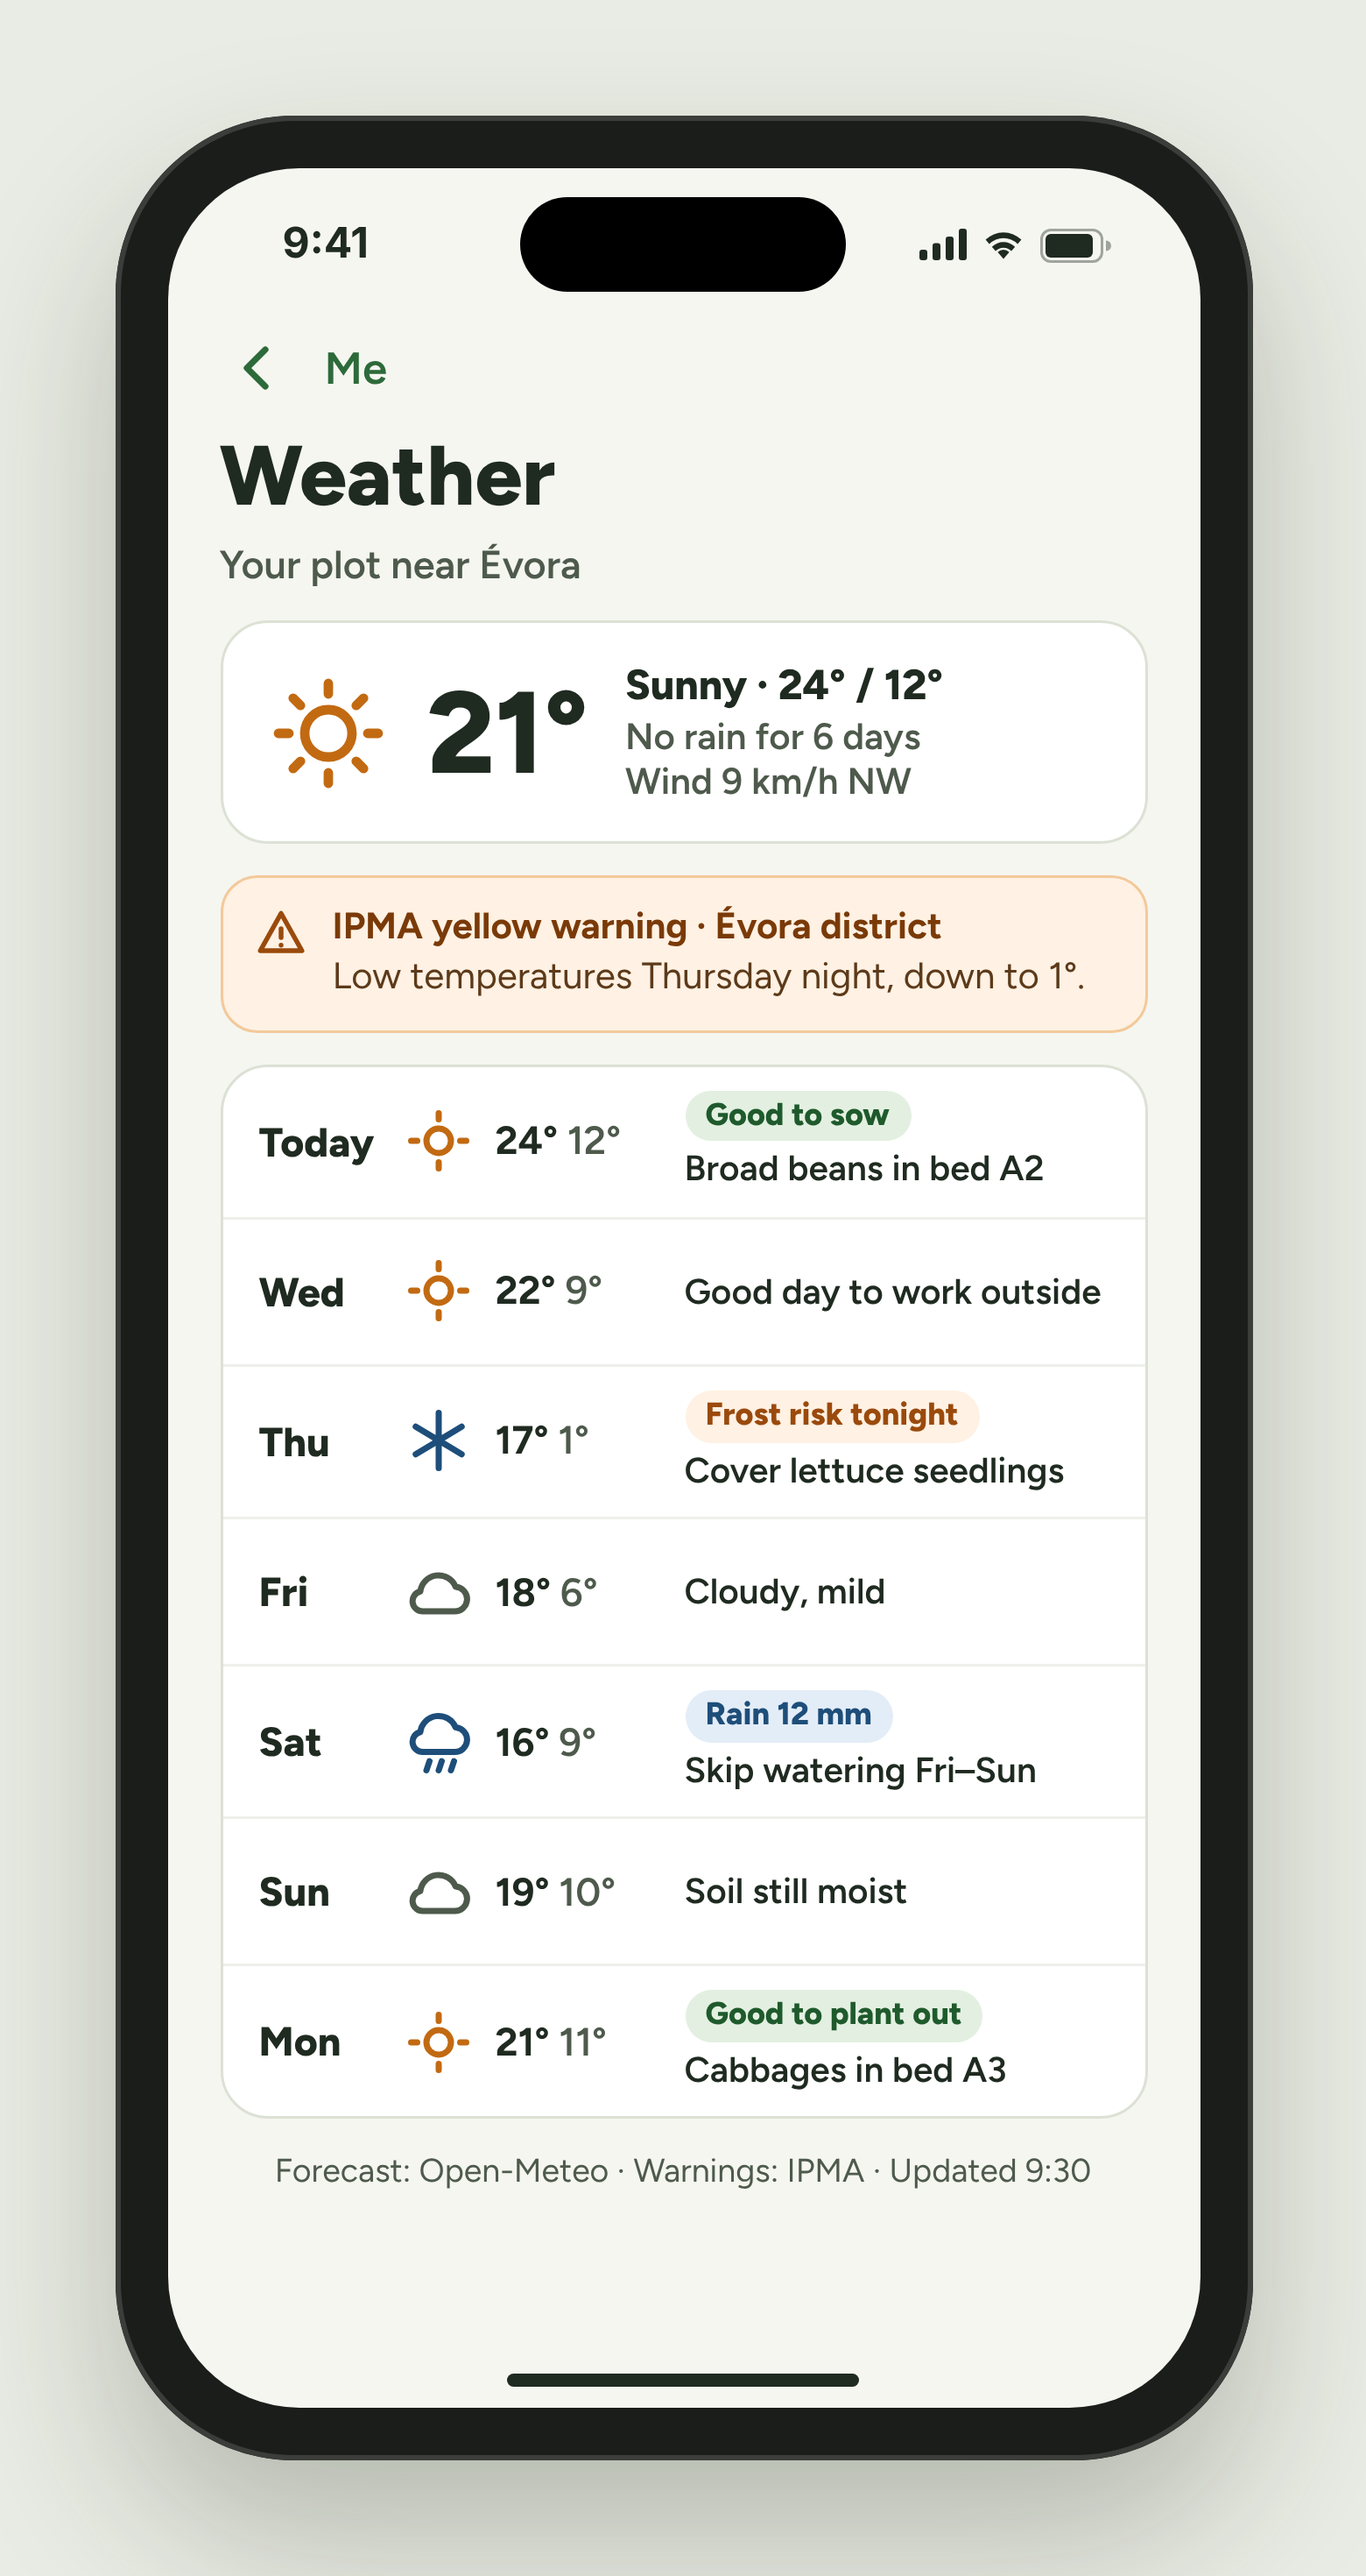
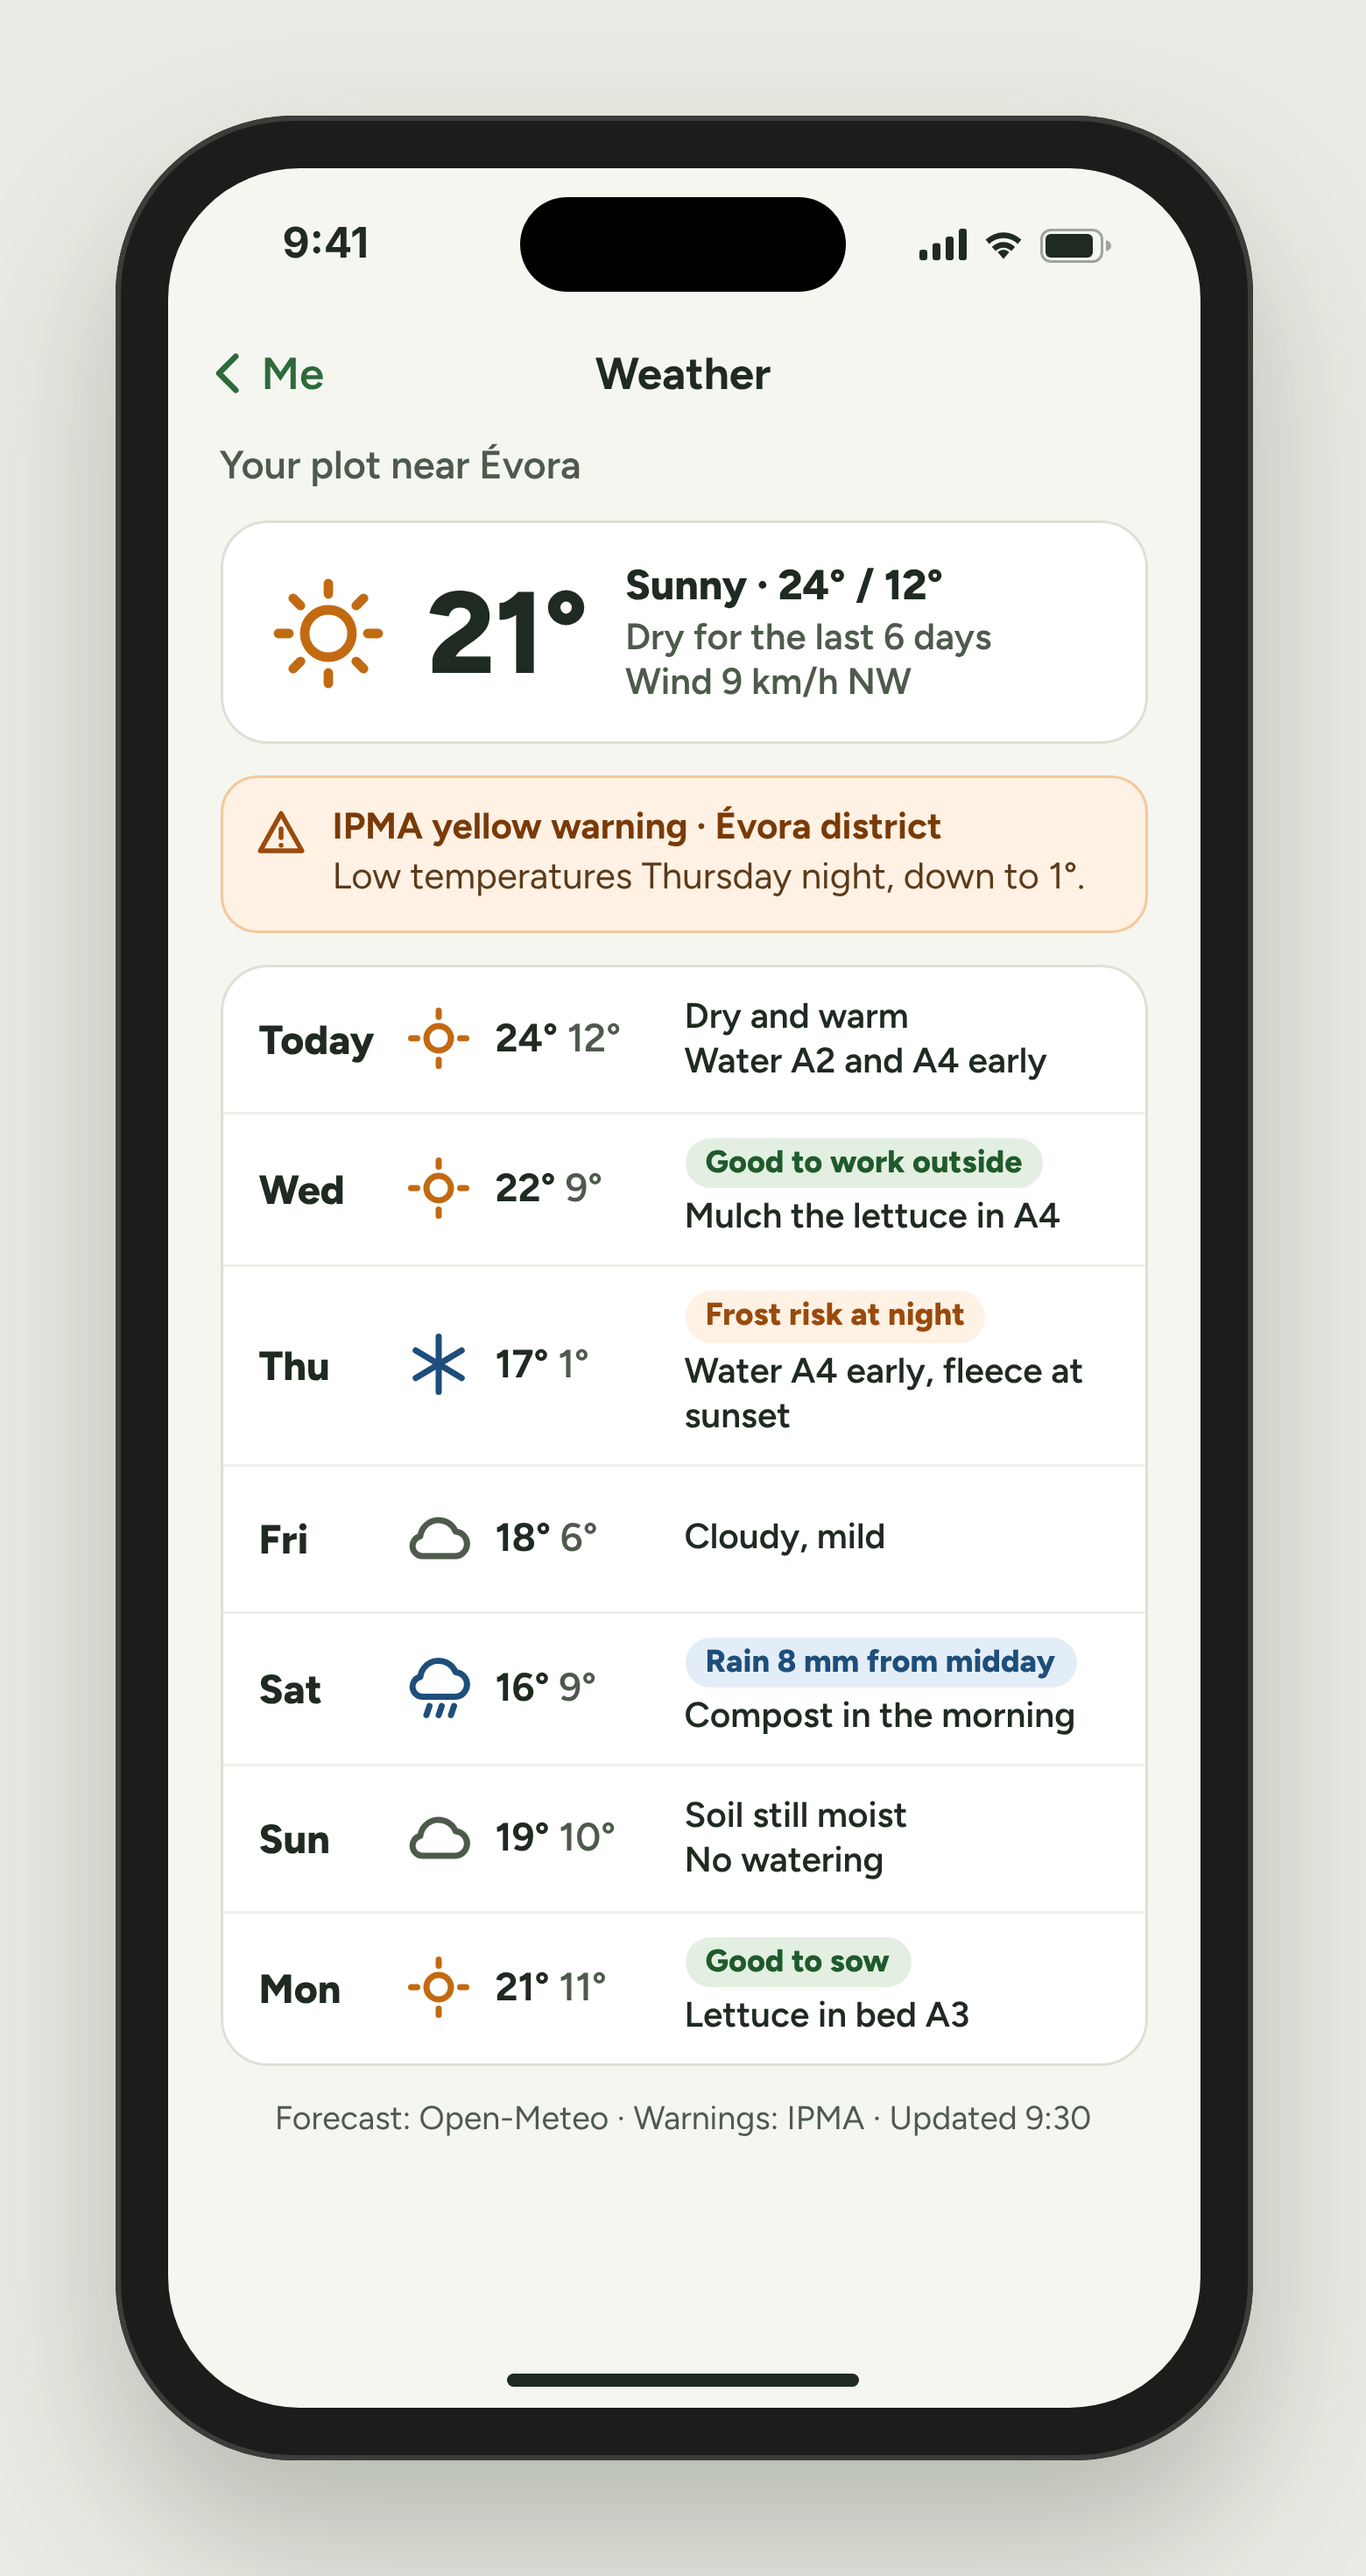
Design G5 weather: drill-down nav, daily notes match the week's plan
Claude-Session: https://claude.ai/code/session_015NynAjU4naPZwzmeuGazot

diff --git a/design/source/G5-weather.html b/design/source/G5-weather.html
@@ -11,7 +11,7 @@
   .body { flex: 1; padding: 0 20px 30px; display: flex; flex-direction: column; gap: 12px; overflow: hidden; }
   .body > * { flex: none; }
   h1 { margin: 0; font-size: 32px; font-weight: 800; }
-  .place { margin-top: -6px; font-size: 15px; color: var(--muted); font-weight: 600; }
+  .place { margin-top: 2px; font-size: 15px; color: var(--muted); font-weight: 600; }
   .now { background: #fff; border: 1px solid var(--line); border-radius: 18px; padding: 14px 16px; display: flex; align-items: center; gap: 14px; }
   .now .t { font-size: 44px; font-weight: 800; line-height: 1; }
   .now .d { display: flex; flex-direction: column; gap: 2px; font-size: 14px; color: var(--muted); font-weight: 600; }
@@ -43,30 +43,29 @@
       <svg width="27" height="13" viewBox="0 0 27 13"><rect x="0.5" y="0.5" width="23" height="12" rx="3.5" fill="none" stroke="#1F2A20" opacity=".4"/><rect x="2" y="2" width="18" height="9" rx="2" fill="#1F2A20"/><path d="M25 4.5v4a2 2 0 0 0 0-4z" fill="#1F2A20" opacity=".4"/></svg>
     </span>
   </div>
-  <div class="nav">
-    <div class="back"><svg width="24" height="24" viewBox="0 0 24 24" fill="none" stroke="#2D6A3A" stroke-width="2.4" stroke-linecap="round" stroke-linejoin="round"><path d="M15 5l-7 7 7 7"/></svg></div>
-    <span style="font-size: 17px; color: var(--green); font-weight: 600">Me</span>
+  <div class="nav" style="position: relative; height: 48px">
+    <div style="display: flex; align-items: center; gap: 2px; color: var(--green); font-size: 17px; font-weight: 600; height: 44px"><svg width="22" height="22" viewBox="0 0 24 24" fill="none" stroke="#2D6A3A" stroke-width="2.4" stroke-linecap="round" stroke-linejoin="round"><path d="M15 5l-7 7 7 7"/></svg>Me</div>
+    <span style="position: absolute; left: 50%; transform: translateX(-50%); font-size: 17px; font-weight: 700">Weather</span>
   </div>
   <div class="body">
-    <h1>Weather</h1>
     <div class="place">Your plot near Évora</div>
     <div class="now">
       <svg width="48" height="48" viewBox="0 0 24 24" fill="none" stroke="#C26A12" stroke-width="1.8" stroke-linecap="round"><circle cx="12" cy="12" r="4.5"/><path d="M12 2.5v2M12 19.5v2M2.5 12h2M19.5 12h2M5.3 5.3l1.4 1.4M17.3 17.3l1.4 1.4M5.3 18.7l1.4-1.4M17.3 6.7l1.4-1.4"/></svg>
       <div class="t">21°</div>
-      <div class="d"><b>Sunny · 24° / 12°</b>No rain for 6 days<br>Wind 9 km/h NW</div>
+      <div class="d"><b>Sunny · 24° / 12°</b>Dry for the last 6 days<br>Wind 9 km/h NW</div>
     </div>
     <div class="ipma">
       <svg width="20" height="20" viewBox="0 0 24 24" fill="none" stroke="#9A4A0C" stroke-width="2.2" stroke-linecap="round" stroke-linejoin="round" style="flex: none; margin-top: 1px"><path d="M12 3l9.5 17h-19z"/><path d="M12 10v4M12 17.5v.01"/></svg>
       <div><b>IPMA yellow warning · Évora district</b><br>Low temperatures Thursday night, down to 1°.</div>
     </div>
     <div class="days">
-      <div class="day"><span class="n">Today</span><svg width="28" height="28" viewBox="0 0 24 24" fill="none" stroke="#C26A12" stroke-width="2" stroke-linecap="round"><circle cx="12" cy="12" r="4"/><path d="M12 3v2M12 19v2M3 12h2M19 12h2"/></svg><span class="temp">24° <span>12°</span></span><span class="note"><span class="pill g">Good to sow</span><br>Broad beans in bed A2</span></div>
-      <div class="day"><span class="n">Wed</span><svg width="28" height="28" viewBox="0 0 24 24" fill="none" stroke="#C26A12" stroke-width="2" stroke-linecap="round"><circle cx="12" cy="12" r="4"/><path d="M12 3v2M12 19v2M3 12h2M19 12h2"/></svg><span class="temp">22° <span>9°</span></span><span class="note">Good day to work outside</span></div>
-      <div class="day"><span class="n">Thu</span><svg width="28" height="28" viewBox="0 0 24 24" fill="none" stroke="#1E4E7A" stroke-width="2" stroke-linecap="round" stroke-linejoin="round"><path d="M12 3v18M4.5 7.5l15 9M19.5 7.5l-15 9"/></svg><span class="temp">17° <span>1°</span></span><span class="note"><span class="pill o">Frost risk tonight</span><br>Cover lettuce seedlings</span></div>
+      <div class="day"><span class="n">Today</span><svg width="28" height="28" viewBox="0 0 24 24" fill="none" stroke="#C26A12" stroke-width="2" stroke-linecap="round"><circle cx="12" cy="12" r="4"/><path d="M12 3v2M12 19v2M3 12h2M19 12h2"/></svg><span class="temp">24° <span>12°</span></span><span class="note">Dry and warm<br>Water A2 and A4 early</span></div>
+      <div class="day"><span class="n">Wed</span><svg width="28" height="28" viewBox="0 0 24 24" fill="none" stroke="#C26A12" stroke-width="2" stroke-linecap="round"><circle cx="12" cy="12" r="4"/><path d="M12 3v2M12 19v2M3 12h2M19 12h2"/></svg><span class="temp">22° <span>9°</span></span><span class="note"><span class="pill g">Good to work outside</span><br>Mulch the lettuce in A4</span></div>
+      <div class="day"><span class="n">Thu</span><svg width="28" height="28" viewBox="0 0 24 24" fill="none" stroke="#1E4E7A" stroke-width="2" stroke-linecap="round" stroke-linejoin="round"><path d="M12 3v18M4.5 7.5l15 9M19.5 7.5l-15 9"/></svg><span class="temp">17° <span>1°</span></span><span class="note"><span class="pill o">Frost risk at night</span><br>Water A4 early, fleece at sunset</span></div>
       <div class="day"><span class="n">Fri</span><svg width="28" height="28" viewBox="0 0 24 24" fill="none" stroke="#4E5A4C" stroke-width="2" stroke-linecap="round" stroke-linejoin="round"><path d="M7 18h10a4 4 0 0 0 .5-8 6 6 0 0 0-11.5 1.5A3.3 3.3 0 0 0 7 18z"/></svg><span class="temp">18° <span>6°</span></span><span class="note">Cloudy, mild</span></div>
-      <div class="day"><span class="n">Sat</span><svg width="28" height="28" viewBox="0 0 24 24" fill="none" stroke="#1E4E7A" stroke-width="2" stroke-linecap="round" stroke-linejoin="round"><path d="M7 15h10a4 4 0 0 0 .5-8 6 6 0 0 0-11.5 1.5A3.3 3.3 0 0 0 7 15z"/><path d="M9 18l-1 3M13 18l-1 3M17 18l-1 3"/></svg><span class="temp">16° <span>9°</span></span><span class="note"><span class="pill b">Rain 12 mm</span><br>Skip watering Fri–Sun</span></div>
-      <div class="day"><span class="n">Sun</span><svg width="28" height="28" viewBox="0 0 24 24" fill="none" stroke="#4E5A4C" stroke-width="2" stroke-linecap="round" stroke-linejoin="round"><path d="M7 18h10a4 4 0 0 0 .5-8 6 6 0 0 0-11.5 1.5A3.3 3.3 0 0 0 7 18z"/></svg><span class="temp">19° <span>10°</span></span><span class="note">Soil still moist</span></div>
-      <div class="day"><span class="n">Mon</span><svg width="28" height="28" viewBox="0 0 24 24" fill="none" stroke="#C26A12" stroke-width="2" stroke-linecap="round"><circle cx="12" cy="12" r="4"/><path d="M12 3v2M12 19v2M3 12h2M19 12h2"/></svg><span class="temp">21° <span>11°</span></span><span class="note"><span class="pill g">Good to plant out</span><br>Cabbages in bed A3</span></div>
+      <div class="day"><span class="n">Sat</span><svg width="28" height="28" viewBox="0 0 24 24" fill="none" stroke="#1E4E7A" stroke-width="2" stroke-linecap="round" stroke-linejoin="round"><path d="M7 15h10a4 4 0 0 0 .5-8 6 6 0 0 0-11.5 1.5A3.3 3.3 0 0 0 7 15z"/><path d="M9 18l-1 3M13 18l-1 3M17 18l-1 3"/></svg><span class="temp">16° <span>9°</span></span><span class="note"><span class="pill b">Rain 8 mm from midday</span><br>Compost in the morning</span></div>
+      <div class="day"><span class="n">Sun</span><svg width="28" height="28" viewBox="0 0 24 24" fill="none" stroke="#4E5A4C" stroke-width="2" stroke-linecap="round" stroke-linejoin="round"><path d="M7 18h10a4 4 0 0 0 .5-8 6 6 0 0 0-11.5 1.5A3.3 3.3 0 0 0 7 18z"/></svg><span class="temp">19° <span>10°</span></span><span class="note">Soil still moist<br>No watering</span></div>
+      <div class="day"><span class="n">Mon</span><svg width="28" height="28" viewBox="0 0 24 24" fill="none" stroke="#C26A12" stroke-width="2" stroke-linecap="round"><circle cx="12" cy="12" r="4"/><path d="M12 3v2M12 19v2M3 12h2M19 12h2"/></svg><span class="temp">21° <span>11°</span></span><span class="note"><span class="pill g">Good to sow</span><br>Lettuce in bed A3</span></div>
     </div>
     <div class="src">Forecast: Open-Meteo · Warnings: IPMA · Updated 9:30</div>
   </div>
